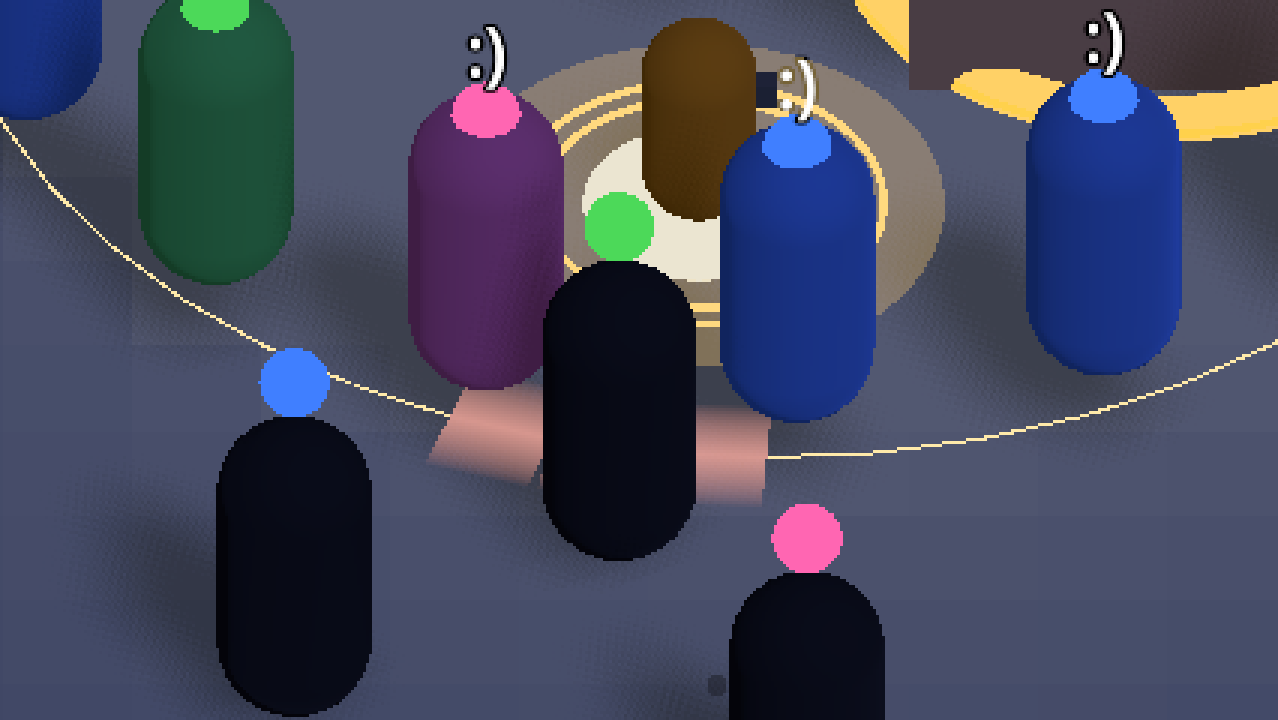
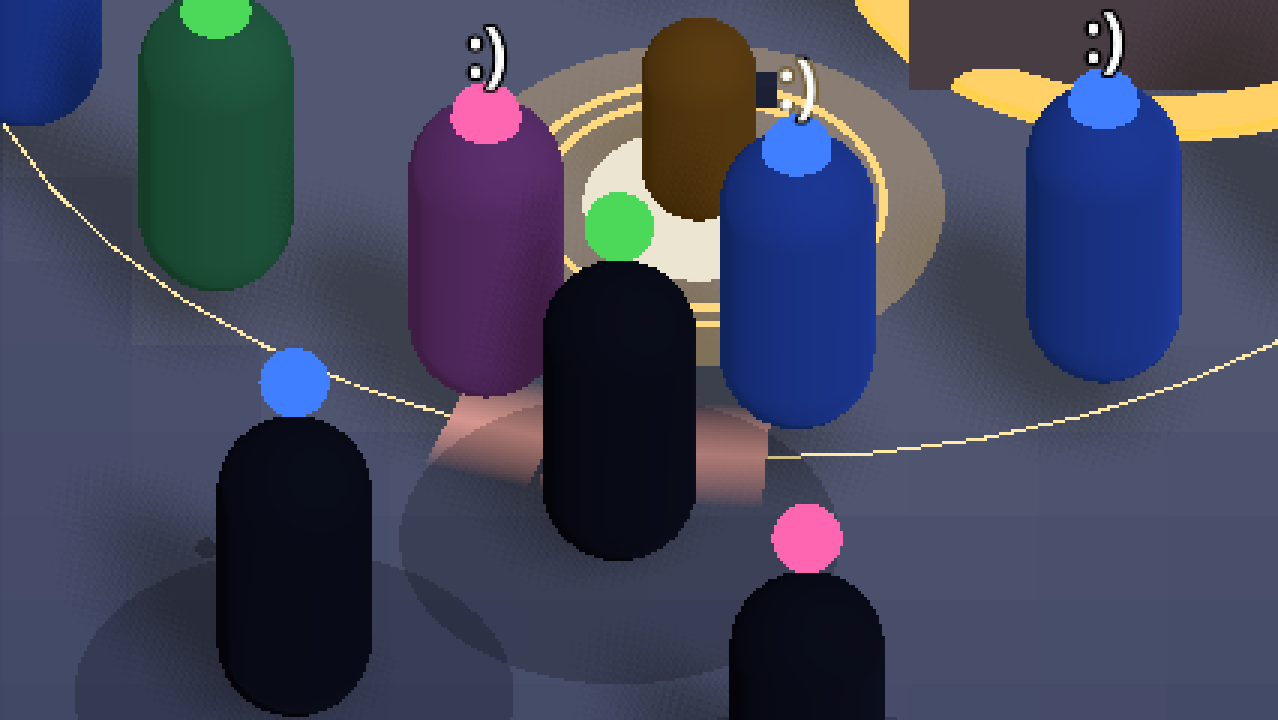
Docs and coverage baseline for round 12a
IDEAS.md: Round 12a build (values, judgement calls, playtest questions). README: spirit, dim, grabs, twirl and controls.
ARCHITECTURE.md: grabs.gd, player and border additions, the parse-error gotcha. Refreshed checkpoint renders (new HUD)
and the coverage baseline (242 tests).

diff --git a/ARCHITECTURE.md b/ARCHITECTURE.md
@@ -12,11 +12,12 @@ Ideas and decisions: `IDEAS.md`. Nothing here describes gameplay changes; it des
 ## Script map (`scripts/*.gd`)
 | Script (`class_name`) | Owns | Key public API | Config used |
 |---|---|---|---|
-| `topdown_main.gd` (`TopDownMain`) | The level: plaza, blocks, people, camera, light, win/lose, wiring of all systems | `people`, `border`, `ground`, `player`, `hud`, `minimap`, `night`, `running`, `rescued_count`; `pursuit_assignments()`, `view_half_extents()` | `TD_PLAZA_SIZE`, `TD_PEOPLE_COUNT`, `TD_CAMERA_*`, `TD_MINIMAP_*`, `TD_DARK_*`, `TD_WANDER_*`, `TD_SPAWN_*`, `TD_COVER_*`, `RNG_SEED` |
-| `topdown_player.gd` (`TopDownPlayer`) | WASD movement, aiming, targeting modes, firing, joy burst | signals `target_changed`, `targeting_changed`, `debug_toggled`, `burst_fired`; `target`, `targeting_mode`, `burst_cooldown` | `TD_PLAYER_*`, `TD_TARGETING_*`, `TD_ELEMENT_*`, `TD_BURST_*`, `TD_HIGHLIGHT_*` |
+| `topdown_main.gd` (`TopDownMain`) | The level: plaza, blocks, people, camera, light, win/lose, wiring of all systems; spirit rewards, dim recovery and the x1.5 border loss while dim (round 12a) | `people`, `border`, `ground`, `player`, `grabs`, `hud`, `minimap`, `night`, `running`, `rescued_count`; `pursuit_assignments()`, `view_half_extents()`, `dim_recovery_rate()` | `TD_PLAZA_SIZE`, `TD_PEOPLE_COUNT`, `TD_CAMERA_*`, `TD_MINIMAP_*`, `TD_DARK_*`, `TD_WANDER_*`, `TD_SPAWN_*`, `TD_COVER_*`, `RNG_SEED` |
+| `topdown_player.gd` (`TopDownPlayer`) | WASD movement, aiming, targeting modes, firing, joy burst, **spirit and the dim state, the twirl** (round 12a) | signals `target_changed`, `targeting_changed`, `debug_toggled`, `burst_fired`, `dim_changed`; `target`, `targeting_mode`, `burst_cooldown`, `spirit`, `is_dim`, `twirl_*`; `add_spirit()`, `lose_spirit()`, `fire_rate_mult()`, `can_burst()`, `mini_burst()` | `TD_PLAYER_*`, `TD_TARGETING_*`, `TD_ELEMENT_*`, `TD_BURST_*`, `TD_HIGHLIGHT_*`, `SPIRIT_*`, `DIM_*`, `TWIRL_*` |
+| `grabs.gd` (`Grabs`) | Round 12a: the grabs of dimmed people (wind-up, lunge, landing, cooldown) and what a twirl does to them | `update(people, player, delta)`, `is_grabbing()`, `is_winding_up()`, `cooldown_left()`; signals `grab_landed`, `grab_avoided(person, perfect)`; sets `Person.grab_frac` / `grab_lunging` / `grab_toward` | `GRAB_*`, `TWIRL_PERFECT_WINDOW` |
 | `person.gd` (`Person`) | One person: affinity, joy, gloom, rescued state, grace, visuals, floating numbers | `receive_joy()`, `drain_joy()`, `tick()`, `joy_needed()`, `chest_position()`, fields `gloom`, `joy`, `cover`, `protection`, `is_rescued`; signals `rescued`, `relapsed` | `JOY_*`, `PERSON_*`, `GRACE_*`, `GLOOM_*` |
 | `gloom_sim.gd` (`GloomSim`) | Static rules: darkening, spreading, draining, protection | `update(people, delta, drain_mult, strength, border)`, `is_dark()`, `protection_for()` | `GLOOM_*`, `SPREAD_*`, `TD_DRAIN_MULTIPLIER` |
-| `border.gd` (`Border`) | The living border: loop polygon, members, gaps, posts, push-back, building capture | `update()`, `on_rescue()`, `on_relapse()`, `cover_at()`, `clip_move()`, `shove()`, `polygon`, `members`, `active`, `segment_is_gap()`, `gap_midpoints()`, `landmark_beautified()`; statics `is_inside()`, `gap_flags()`, `slot_count_for()` | `BORDER_*` |
+| `border.gd` (`Border`) | The living border: loop polygon, members, gaps, posts, push-back, building capture; `loss_mult` and `flicker()` while the player is dim | `update()`, `set_player_dim()`, `on_rescue()`, `on_relapse()`, `cover_at()`, `clip_move()`, `shove()`, `polygon`, `members`, `active`, `segment_is_gap()`, `gap_midpoints()`, `landmark_beautified()`; statics `is_inside()`, `gap_flags()`, `slot_count_for()` | `BORDER_*` |
 | `building.gd` (`Building`) | One block the border can beautify; lantern + ring if it is a post | `update(delta, inside_fraction)`, `set_post()`, `beautified` | `BORDER_BUILDING_SECONDS`, `BORDER_TINT_SECONDS` |
 | `landmark.gd` (`Landmark`) | The beacon block's hold ring and win timer | `update(delta, beautified)`, `progress()`, `is_held()` | `BORDER_LANDMARK_*` |
 | `painted_ground.gd` (`PaintedGround`) | 1 m tile grid: paint weight and colour (a MultiMesh), erosion by dark people | `update_paint()`, `paint_weight_at()`, `paint_colour_at()`, `set_region()`, `average_weight(_excluding)()`, `beautified_fraction()` | `TD_GROUND_*`, `TD_PAINT_*`, `TD_ERODE_*`, `GROUND_*` |
@@ -24,7 +25,7 @@ Ideas and decisions: `IDEAS.md`. Nothing here describes gameplay changes; it des
 | `joy_projectile.gd` (`JoyProjectile`) | A shot: music (homing note), art (lobbed blob), nature (flower); impact effects | `launch_velocity()` (static); set `element`, `velocity`, `target`, `people` before `add_child` | `TD_PROJECTILE_*`, `TD_NOTE_*`, `TD_SPLAT_*`, `TD_FLOWER_*`, `TD_PETAL_*`, `TD_TRAIL_*` |
 | `bloom.gd` (`Bloom`) | Nature flower patch: pulsed joy to people inside, then fades | set `people` before adding | `TD_BLOOM_*` |
 | `floor_effects.gd` (`FloorEffects`) | Registry and cap for transient floor overlays (rings, splats, blooms) | `add()`, `live()`, `enforce_cap()`, `summary()` | `TD_MAX_FLOOR_EFFECTS` and the priority inventory |
-| `hud.gd` (`Hud`) | Labels: target element, rescued count, night bar, burst bar, alerts, end screen, debug text | `set_*()`, `show_alert()`, `show_end()` | (few; mostly literals in `hud.gd`) |
+| `hud.gd` (`Hud`) | Labels: target element, rescued count, night bar, burst bar, spirit bar, twirl cooldown, alerts, end screen, debug text | `set_*()` (`set_spirit`, `set_twirl`, `set_burst(cooldown, has_spirit)`), `show_alert()`, `show_end()` | (few; mostly literals in `hud.gd`) |
 | `minimap.gd` (`Minimap`) | Round minimap: data model (`border_pts`, `member_pts`, `dark_pts`, ...) then a 128 px image | `tick(delta)`, `refresh_from(...)`, `radius()` | `TD_MINIMAP_*` |
 | `gap_arrows.gd` (`GapArrows`) | Coral screen-edge arrows toward off-screen gaps | `update_arrows()`, static `off_screen_arrows()` | `OFFSCREEN_*` |
 | `controls.gd` (`Controls`) | Registers every InputMap action (no raw keys elsewhere) | `setup()` | none |
@@ -64,10 +65,10 @@ calm opening and friendlier numbers. The matchup table and helpers are at the bo
 1. `_update_camera`, `_update_highlight`, `_update_readability` (minimap refresh about every 0.1 s, gap arrows) run even when ended.
 2. If `running`: `night.update` -> HUD night bar and light.
 3. `border.update(people, delta, strength)`: members, gaps, push-back, building capture, loop polygon, ground region.
-4. `_update_people`: steer unrescued people (pursue weakest rescued, edge-seek if dark, else wander).
+4. `_update_people`: steer unrescued people (grabbers stand still; dimmed people reach for a non-dim player; else pursue weakest rescued, edge-seek if dark, else wander).
 5. `_update_cover` (every `GROUND_UPDATE_INTERVAL`): `Person.cover` and `protection` from the border depth or the paint.
-6. `GloomSim.update`: darken, spread, drain. Then `Person.tick` for each person.
-7. `ground.update_paint` (paint spreads around rescued people, fades, erodes at the edge), `landmark.update`, HUD burst bar, `_check_end`.
+6. `_update_dim` (border and ground `loss_mult`, dim recovery), `GloomSim.update` (drain x `border.loss_mult`): darken, spread, drain. `Grabs.update`. Then `Person.tick` for each person.
+7. `ground.update_paint` (paint spreads around rescued people, fades, erodes at the edge), `landmark.update`, HUD spirit, burst and twirl, `_check_end`.
 Player physics (`TopDownPlayer._physics_process`) and projectile physics run on the 60 Hz physics tick, separately.
 
 ## Tests (`tests/*_test.gd`, gdUnit4 v6.2.2)
@@ -93,6 +94,7 @@ Player physics (`TopDownPlayer._physics_process`) and projectile physics run on 
 - Windows long paths: keep temp copies in short paths (coverage copies to `.coverage_build/`, excluding `design/`).
 - The console is cp1252: `tools/run_tests.py` and `gate.py` reconfigure stdout to UTF-8; keep non-ASCII out of `print` elsewhere.
 - The gdUnit CLI shrinks the window to 64x64; set `get_window().size` before loading a scene that lays out at `_ready`.
+- A parse error in a test file makes gdUnit skip that suite quietly while the summary still says all passed: after adding tests, grep the gate's `tests.log` (path printed on failure; `run_tests.py` output) for `Parse Error`.
 - Strict typing: warnings are errors (`project.godot`). Type every `for` variable; avoid iterating arrays that may hold freed nodes.
 - Coverage ignores lambda bodies passed as multi-line arguments; hoist them into a `var` to measure them.
 
@@ -115,6 +117,7 @@ Player physics (`TopDownPlayer._physics_process`) and projectile physics run on 
 - **People / gloom / night**: `person.gd`, `gloom_sim.gd`, `night_cycle.gd`, `topdown_main.gd` (`_update_people`, `pursuit_assignments`); tests `person_test`, `gloom_sim_test`, `night_cycle_test`, `topdown_crowd_test`.
 - **Projectiles / blooms / floor effects**: `joy_projectile.gd`, `bloom.gd`, `floor_effects.gd`; tests `projectile_*_test.gd`, `floor_test`, `paint_bloom_camera_test`.
 - **Targeting / input**: `topdown_player.gd`, `controls.gd`; tests `targeting_test`, `topdown_mode_test`, `grace_cue_test`.
+- **Spirit / dim / grabs / twirl** (round 12a): `topdown_player.gd`, `grabs.gd`, `topdown_main.gd` (`_update_dim`, `dim_recovery_rate`, `_reaches_for_player`), `border.gd` (`loss_mult`), `painted_ground.gd` (`loss_mult`); tests `spirit_test`, `grab_test`; config `SPIRIT_*`, `DIM_*`, `GRAB_*`, `TWIRL_*`.
 - **Looks / styled art**: `scripts/looks/*`, `shaders/*`, `topdown_main.gd` (`set_look`); tests `looks_test`; tool `checkpoint_shots.py`.
 - **HUD / minimap / camera**: `hud.gd`, `minimap.gd`, `gap_arrows.gd`, `topdown_main.gd` (`_update_camera`, `view_half_extents`); tests `hud_test`, `readability_test`, `debug_overlay_test`, `menu_test`.
 - **Tooling**: `tools/gate.py`, `run_tests.py`, `coverage.py`, `lint.py`, `.githooks/pre-commit`, `tools/COVERAGE_TOOL_NOTES.md`.

diff --git a/IDEAS.md b/IDEAS.md
@@ -566,3 +566,60 @@ The theme is **gloom** in general, not cold or frost.
   above stay as written (history). Code names such as `dark` and `TD_DARK_DRIFT_SPEED` can be renamed in a later build
   round when convenient; not urgent. The locked art note "hunched gloomy dark people" in design/style_test/REVIEW_NOTES.md
   reads as "hunched gloomy dimmed people" from now on.
+
+## Round 12a build
+Built from the round 12 plan: item **C (going dim)** and item **B (dance with the gloom)**, with the spirit resource that
+joins them. Items A, D and E (moods, edge pressure, noticeable grey levels) wait for round 12b. Player-facing text uses
+the new terms (gloom; wistful, gloomy, dimmed; "dimmed people"); code names such as `dark_*` and `is_dark()` are unchanged.
+
+**What was built**
+- **Spirit** (`TopDownPlayer.spirit`, 0..100; the player starts with 50, a choice the plan did not specify): +20 per rescue,
+  the joy burst costs 30 and is unavailable (HUD: "needs 30 spirit") without it. Joy fire rate is full at 50% spirit or
+  more and falls linearly to 40% of the rate just above 0. A HUD bar and label sit above the burst indicator.
+- **Going dim** at spirit 0: walk speed x0.5, no joy fire, no burst, body colour lerps to grey (placeholder look; the
+  styled player is not tinted yet: rough spot). Dimmed people ignore a dim player (they go back to chasing the weakest
+  rescued person or the edge). Recovery is **only while dim**, only inside the border, at 10/s x (0.3 + 0.7 x depth
+  protection); before any border exists, within 6 m of the landmark at the full rate. Dim ends at spirit 30. While dim the
+  border loses ground x1.5: drain of members by pressing and by GloomSim, paint erosion and paint fade; the border line
+  (placeholder: alpha pulse; styled: haze and motes drop out in the dark half of the flicker) flickers.
+- **Dance with the gloom** (`scripts/grabs.gd`): a dimmed person who notices a non-dim player within 7 m walks toward
+  them. Within 2.0 m they start a 0.7 s wind-up (lean back, red ring growing at their feet toward the player: drawn by the
+  person look from `Person.grab_frac`), then a 0.15 s lunge of up to 1.0 m toward where the player stood. If the player is
+  within 1.3 m of the grabber when the lunge ends, 25 spirit is drained. 2.5 s cooldown per person.
+- **Twirl** (Space, new `twirl` action): 3.0 m in 0.2 s in the move direction (facing direction when standing still),
+  1.5 s cooldown, usable while dim, no grabs land while it runs. **Perfect twirl:** a twirl that began within 0.25 s before
+  the lunge ended, from a spot within 1.3 m of the grabber, avoids the grab and sets off a free joy burst (radius 2.5 m,
+  half of the burst joy, no spirit cost, no border shove) and an alert. A twirl out of reach early just avoids it.
+- **Checkpoint fixes:** the styled minimap shades warm as soon as a tile has paint (it waited for half paint, so slowly
+  filling ground looked unclaimed); dimmed people get a bigger, denser smoke pool and twice the soot motes in the styled
+  look, and a soft dark disc on the ground in the placeholder look.
+- New things are placeholder-look only (grab ring, dimmed disc): the ring registers itself in F3 in styled mode.
+
+**Tuning values** (all in `config.gd`, "Round 12a"): `SPIRIT_MAX 100`, `SPIRIT_START 50`, `SPIRIT_PER_RESCUE 20`,
+`BURST_SPIRIT_COST 30`, `SPIRIT_FULL_FIRE_FRACTION 0.5`, `SPIRIT_MIN_FIRE_FRACTION 0.4`, `DIM_MOVE_MULT 0.5`,
+`DIM_RECOVER_RATE 10` (base 0.3, depth 0.7), `LANDMARK_RECOVER_RADIUS 6`, `DIM_EXIT_SPIRIT 30`, `DIM_LOSS_MULT 1.5`,
+`GRAB_NOTICE_RANGE 7`, `GRAB_RANGE 2.0`, `GRAB_HIT_RANGE 1.3`, `GRAB_WINDUP 0.7`, `GRAB_LUNGE_TIME 0.15`,
+`GRAB_LUNGE_DISTANCE 1.0`, `GRAB_COOLDOWN 2.5`, `GRAB_SPIRIT_DRAIN 25`, `TWIRL_DISTANCE 3.0`, `TWIRL_TIME 0.2`,
+`TWIRL_COOLDOWN 1.5`, `TWIRL_PERFECT_WINDOW 0.25`, `TWIRL_BURST_RADIUS 2.5`, `TWIRL_BURST_JOY_FRACTION 0.5`.
+
+**Judgement calls to check**
+- The plan said the hit check happens "at the end" of the wind-up; with a start range of 2.0 and a hit range of 1.3 a
+  standing player could never be hit, so the lunge was made to close the gap (up to 1.0 m) and the check is at its end.
+- Spirit only recovers while dim. A non-dim player's spirit comes only from rescues. If that feels too stingy, add a
+  slow passive recovery inside the border.
+- Spending the burst down to exactly 0 spirit makes the player go dim (a 30 spirit burst from 30). This is probably
+  harsh; the alternative is to forbid a burst that would leave 0.
+- Dimmed people now walk toward a non-dim player, which changes the feel of standing in the open. They are still held at
+  the border line like everything else.
+
+**Playtest questions**
+- Is the spirit/dim tension good: do rescues feel like they refill something worth protecting?
+- Do the grabs feel fair with the wind-up (ring, lean, 0.7 s)? Is 25 spirit the right price, 1.3 m the right reach?
+- Is the twirl satisfying (distance, cooldown, the perfect window)? Does a perfect twirl feel worth aiming for?
+- Does going dim feel like a meaningful cost (half speed, no joy, the border flickering and losing heart), and is the
+  recovery (inside the border, deeper is faster) clear and fair? Is the landmark fallback before a border findable?
+- Is the dimmed aura enough to pick dimmed people out from gloomy people at a glance?
+
+**Rough spots:** the styled player does not tint when dim; the styled smoke pool is dark on a dark night and reads
+mostly through the soot motes; the HUD spirit bar uses the default progress bar look; no sound cues yet.
+

diff --git a/README.md b/README.md
@@ -41,15 +41,35 @@ Press **M** at any time to go back to the menu. **R** restarts the level.
 - **Dusk to dawn**: a bar at the top shows the night. The level ends at dawn. The end screen says whether the landmark
   was held, how much of the plaza is painted, how many buildings are beautified, and how many people were rescued.
 
+## Spirit, going dim and the dance with the gloom (round 12a)
+
+- **Spirit** is your spendable resource (0 to 100, you start with 50). Every rescue gives +20. The joy burst costs 30,
+  so with less than that it is unavailable (the HUD says "needs 30 spirit"). Your joy fire rate depends on spirit:
+  full at 50 or more, then slower, down to 40% of the rate just above 0. The spirit bar is bottom left, above the burst.
+- **Dimmed people reach for you.** A dimmed person who notices you (within 7 m) walks toward you. Within 2 m they start a
+  **grab**: a clear wind-up (0.7 s) where they lean back and a red ring grows at their feet toward you, then a lunge. If
+  you are within 1.3 m of them when the lunge ends, it lands and drains 25 spirit. Each person waits 2.5 s between grabs.
+  Walking away works; so does the **twirl**.
+- **Twirl** (**Space**): a short dash (3 m in 0.2 s) in the direction you are moving, or the way you face if you are
+  standing still. 1.5 s cooldown (shown on the HUD). You cannot be grabbed while you twirl. A **perfect twirl**, one that
+  starts in the last quarter second before a grab would have landed, avoids it and sets off a small free joy burst
+  (2.5 m radius, half the normal joy).
+- **Going dim.** At 0 spirit you go dim: half walking speed, no joy fire and no burst, and your colour drains toward
+  grey. The twirl still works. Dimmed people ignore a dim player and go back to pressing the border. While you are dim the
+  border loses ground 1.5 times faster and its line flickers, so the cause is clear.
+- **Recovering.** A dim player recovers 10 spirit a second, scaled by how deep inside the border they stand (30% at the
+  line up to 100% a metre in), and only inside the border. Before a border exists, stand within 6 m of the landmark.
+  At 30 spirit you are back to normal.
+
 ## Controls
 
-- **WASD** move, **Shift** run.
+- **WASD** move, **Shift** run, **Space** twirl.
 - **Click** a person to lock on (in lock-on mode). The default is **hover**: the person under the mouse becomes the
   target. **F2** cycles the modes: lock-on, hover (default) and auto (the most urgent person in range).
 - Every shot uses the target's element, so it is always a best match. Music is quick and small, art is slow and big
   (it splashes), nature is a floating flower that blooms where it lands.
-- **G** or **Q** joy burst: everyone close by gets a best-match hit (short cooldown). Used within 4 m of the border, it
-  also shoves the line outward toward you.
+- **G** or **Q** joy burst: everyone close by gets a best-match hit (short cooldown, costs 30 spirit). Used within 4 m
+  of the border, it also shoves the line outward toward you.
 - **F3** toggles the debug overlay: cover (`c`) and protection (`p`) above each person, a label per border segment (its
   spacing, and GAP where it is one), and the member, inner, post and night numbers at the top left, and the live floor-effect counts (for example
   `floor fx 12/40: ring 2, splat 3`, against the cap of 40). Off by default. If F3 does
@@ -57,7 +77,7 @@ Press **M** at any time to go back to the menu. **R** restarts the level.
 - **R** restart, **M** back to the menu.
 
 **On screen (round 10):** the camera is orthographic and looks down at the plaza. A circular **minimap** sits top-left
-(warm and grey ground, buildings, the border, gaps, members, dark people, the landmark star, you, and the view rectangle).
+(warm and grey ground, buildings, the border, gaps, members, dimmed people, the landmark star, you, and the view rectangle).
 When a gap is off screen, a coral **arrow** on the screen edge points at it. You are a saffron figure with a warm ring
 under your feet, and people are drawn bigger.
 
